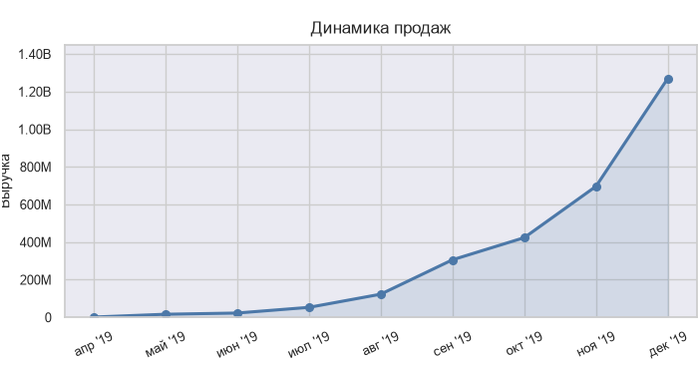
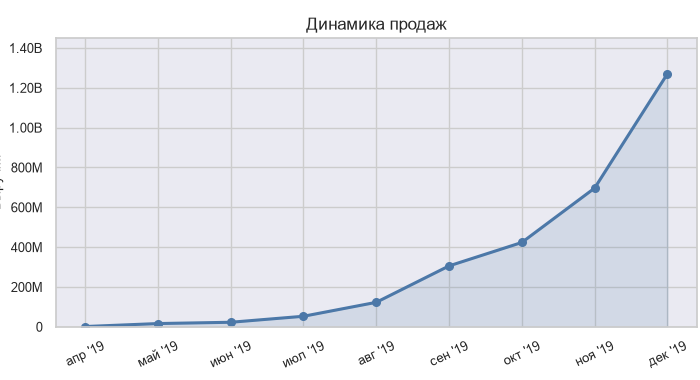
Keep charts at 700x380 with tighter margins and matched LTV titles.

diff --git a/marketplace_sales/make_charts.py b/marketplace_sales/make_charts.py
@@ -1,5 +1,4 @@
-"""Generate marketplace chart PNGs at 700x380 — tight fill like other cases."""
-from io import BytesIO
+"""Generate marketplace chart PNGs at exactly 700x380 with tight margins."""
 from pathlib import Path
 
 import matplotlib.pyplot as plt
@@ -10,9 +9,8 @@ from PIL import Image
 
 OUT = Path(__file__).resolve().parent / "images"
 DPI = 100
-FIGSIZE = (7.0, 3.8)
+FIGSIZE = (7.0, 3.8)  # 700x380
 TARGET = (700, 380)
-PAD = 2
 
 AXES_BG = "#EAEAF2"
 FIG_BG = "white"
@@ -49,33 +47,15 @@ def fmt_money(x, _pos=None):
     return f"{x:,.0f}"
 
 
-def fit_canvas(im: Image.Image, size=TARGET, pad=PAD, bg=(255, 255, 255)) -> Image.Image:
-    """Crop near-white margins, scale up to fill canvas, keep exact size."""
-    arr = np.asarray(im.convert("RGB"))
-    mask = (arr < 250).any(axis=2)
-    ys, xs = np.where(mask)
-    if len(xs) == 0:
-        return im.resize(size, Image.Resampling.LANCZOS)
-    cropped = im.crop((xs.min(), ys.min(), xs.max() + 1, ys.max() + 1))
-    tw, th = size[0] - 2 * pad, size[1] - 2 * pad
-    cw, ch = cropped.size
-    scale = min(tw / cw, th / ch)
-    nw, nh = max(1, int(round(cw * scale))), max(1, int(round(ch * scale)))
-    resized = cropped.resize((nw, nh), Image.Resampling.LANCZOS)
-    canvas = Image.new("RGB", size, bg)
-    canvas.paste(resized, ((size[0] - nw) // 2, (size[1] - nh) // 2))
-    return canvas
-
-
 def save_chart(fig, path: Path):
-    buf = BytesIO()
-    # Tight margins so content fills the figure (like avg_cheque / ab_arpu)
-    fig.subplots_adjust(left=0.09, right=0.995, top=0.88, bottom=0.16)
-    fig.savefig(buf, format="png", dpi=DPI, facecolor=FIG_BG)
+    # Fill the fixed canvas — same approach as other 700x380 portfolio charts
+    fig.subplots_adjust(left=0.08, right=0.995, top=0.90, bottom=0.14)
+    fig.savefig(path, dpi=DPI, facecolor=FIG_BG)
     plt.close(fig)
-    buf.seek(0)
-    im = Image.open(buf)
-    fit_canvas(im).save(path)
+    im = Image.open(path)
+    if im.size != TARGET:
+        im = im.resize(TARGET, Image.Resampling.LANCZOS)
+        im.save(path)
 
 
 def sales_dynamics():
@@ -109,7 +89,7 @@ def sales_dynamics():
     ax.set_facecolor(AXES_BG)
     ax.plot(months, values, marker="o", color=BLUE, linewidth=2.2, markersize=5.5)
     ax.fill_between(months, values, alpha=0.15, color=BLUE)
-    ax.set_title("Динамика продаж", fontsize=12, pad=8)
+    ax.set_title("Динамика продаж", fontsize=12, pad=6)
     ax.set_ylabel("Выручка")
     ax.yaxis.set_major_formatter(mticker.FuncFormatter(fmt_money))
     ax.set_ylim(0, 1.45e9)
@@ -133,7 +113,7 @@ def category_managers():
     ax.set_xticks(x)
     ax.set_xticklabels(quarters)
     ax.set_ylabel("млн ₽")
-    ax.set_title("Факт и план по кварталам", fontsize=12, pad=8)
+    ax.set_title("Факт и план по кварталам", fontsize=12, pad=6)
     ax.legend(fontsize=9, loc="upper left")
     ax.set_axisbelow(True)
     save_chart(fig, OUT / "plan_vs_fact.png")
@@ -146,10 +126,10 @@ def main():
     category_managers()
     for name in ("sales_dynamics.png", "plan_vs_fact.png"):
         im = Image.open(OUT / name)
-        arr = np.asarray(im)
+        arr = np.asarray(im.convert("RGB"))
         mask = (arr < 250).any(axis=2)
         ys, xs = np.where(mask)
-        pads = (xs.min(), ys.min(), im.size[0] - xs.max() - 1, im.size[1] - ys.max() - 1)
+        pads = (int(xs.min()), int(ys.min()), im.size[0] - int(xs.max()) - 1, im.size[1] - int(ys.max()) - 1)
         print(name, im.size, "pads LTRB", pads)
 
 

diff --git a/fintech_ltv/normalize_charts.py b/fintech_ltv/normalize_charts.py
@@ -1,4 +1,4 @@
-"""Fit LTV charts to 700x380 and match title size on cumulative_ltv to heatmap."""
+"""Normalize LTV heatmaps to 700x380; match cumulative title size to heatmap."""
 from pathlib import Path
 
 import numpy as np
@@ -43,7 +43,7 @@ def load_font(size: int) -> ImageFont.ImageFont:
     return ImageFont.load_default()
 
 
-def title_ink_height(im: Image.Image, max_y=50) -> int:
+def title_ink_height(im: Image.Image, max_y=45) -> int:
     arr = np.asarray(im.convert("RGB"))
     dark = (arr < 60).any(axis=2)
     rows = np.where(dark.any(axis=1) & (np.arange(arr.shape[0]) < max_y))[0]
@@ -52,11 +52,10 @@ def title_ink_height(im: Image.Image, max_y=50) -> int:
     return int(rows.max() - rows.min() + 1)
 
 
-def replace_title(im: Image.Image, text: str, font_size: int, band=36) -> Image.Image:
+def replace_title(im: Image.Image, text: str, font_size: int, band=34) -> Image.Image:
     out = im.convert("RGB").copy()
     w, _ = out.size
     draw = ImageDraw.Draw(out)
-    # Sample background from a title-side pixel (usually white)
     draw.rectangle([0, 0, w, band], fill=BG)
     font = load_font(font_size)
     bbox = draw.textbbox((0, 0), text, font=font)
@@ -71,23 +70,30 @@ def main():
     heatmap_path = ROOT / "source_revenue_heatmap.png"
     ltv_path = ROOT / "cumulative_ltv.png"
 
-    # Heatmap: only normalize canvas size (keep existing title)
+    # Start from current files; if already processed, still ok
     hm = fit_canvas(Image.open(heatmap_path))
     hm.save(heatmap_path)
+    ref = title_ink_height(hm)
 
-    # Cumulative: normalize + redraw title to match heatmap weight
-    ref_h = title_ink_height(hm)
-    # Heatmap title ink ≈ 12–16px after fit; use 15pt for parity
-    font_size = 15
-    ltv = fit_canvas(Image.open(ltv_path))
-    ltv = replace_title(ltv, "Накопительный LTV по когортам", font_size)
+    # Pick font size so title ink ≈ heatmap (~12–14pt → ~16–20px)
+    best_size, best_diff = 12, 10**9
+    base = fit_canvas(Image.open(ltv_path))
+    for size in range(11, 16):
+        trial = replace_title(base, "Накопительный LTV по когортам", size)
+        h = title_ink_height(trial)
+        diff = abs(h - ref)
+        print(f"  try font={size} title_h={h} ref={ref} diff={diff}")
+        if diff < best_diff:
+            best_diff, best_size = diff, size
+
+    ltv = replace_title(base, "Накопительный LTV по когортам", best_size)
     ltv.save(ltv_path)
 
-    for p in (heatmap_path, ltv_path, ROOT / "avg_cheque.png"):
+    for p in (heatmap_path, ltv_path):
         im = Image.open(p)
         box = content_box(im)
         pads = (box[0], box[1], im.size[0] - box[2], im.size[1] - box[3])
-        print(p.name, im.size, "pads", pads, "title_h", title_ink_height(im), "ref", ref_h)
+        print(p.name, im.size, "pads", pads, "title_h", title_ink_height(im))
 
 
 if __name__ == "__main__":
